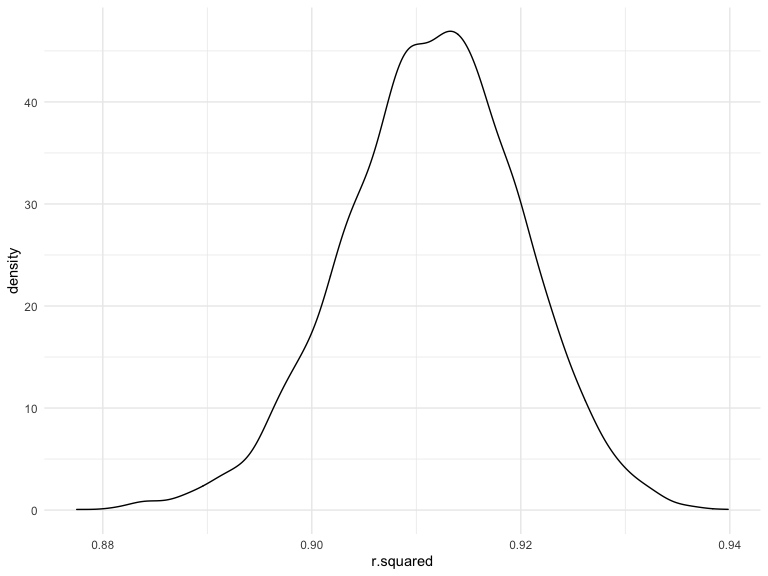
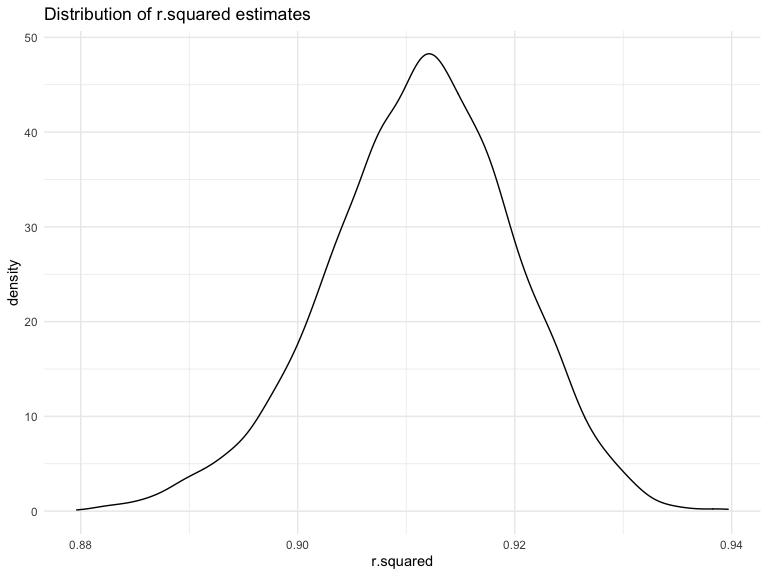
last changed  added axis and title

diff --git a/p8105_HW6_rkm2147.md b/p8105_HW6_rkm2147.md
@@ -117,7 +117,7 @@ models_results_df %>%
 
 ## Problem 2
 
-Find some residuals
+### load data and tidy
 
 ``` r
 baby_df = 
@@ -172,13 +172,6 @@ stage of the homework. in addition to these 4 required variables, i
 added one more additional variable, `momage` to see how that predictor
 influences the outcome.
 
-**make a plot**
-
-is there any skewness? yes, this is right skewed any trend, something
-that is nonlinear? no distinct trends appear any extreme outliers. can
-be observed around the age 20. There appears to be 3 values that are
-above 1500 for residual values.
-
 ``` r
 #model1 on the plot
 my_model = lm(bwt~ blength + bhead + babysex + gaweeks + momage, data = baby_df)
@@ -187,6 +180,35 @@ my_model = lm(bwt~ blength + bhead + babysex + gaweeks + momage, data = baby_df)
 fit_1 = lm(bwt ~ blength + gaweeks, data = baby_df)
 fit_2 = lm(bwt ~ bhead*blength + babysex*bhead + babysex*blength + babysex*bhead*blength, data = baby_df)
 ```
+
+### Create a model and plot it\!
+
+We can observe from this plot that it is left skewed, with values
+clustering between 2000-4000 (for predictions). No distinct trends
+appear from this plot. Extreme outliers can be observed around
+prediction value of 1000 and below. Also this can observed for residuals
+greater than 1000. There appears to be 3 values that are above 1500 for
+residual values.
+
+``` r
+residual_plot = 
+baby_df %>% 
+  modelr::add_residuals(my_model) %>% 
+  add_predictions(my_model) %>%  
+  ggplot(aes(x = pred, y = resid)) + 
+  geom_point() +
+  labs(
+    title = "plot of my proposed model's residuals against fitted values",
+    x = "Predictions",
+    y = "Residuals"
+  )
+
+residual_plot
+```
+
+<img src="p8105_HW6_rkm2147_files/figure-gfm/unnamed-chunk-8-1.png" width="90%" />
+
+### tidy table of the created models
 
 ``` r
 #this is model1 on the plot
@@ -203,6 +225,8 @@ my_model %>%
 | babysexmale |   \-34.666 |     8.815 |   \-3.932 |       0 |
 | gaweeks     |     13.429 |     1.513 |     8.874 |       0 |
 | momage      |      5.934 |     1.125 |     5.273 |       0 |
+
+let’s look at the first model we need to compare
 
 ``` r
 #this is model2 on the plot
@@ -237,19 +261,6 @@ fit_2 %>%
 | blength:babysexmale       |    123.773 |    35.119 |     3.524 |   0.000 |
 | bhead:blength:babysexmale |    \-3.878 |     1.057 |   \-3.670 |   0.000 |
 
-show a plot of model residuals against fitted values – use
-add\_predictions and add\_residuals in making this plot.
-
-``` r
-baby_df %>% 
-  modelr::add_residuals(my_model) %>% 
-  add_predictions(my_model) %>%  
-  ggplot(aes(x = pred, y = resid)) + 
-  geom_point()
-```
-
-<img src="p8105_HW6_rkm2147_files/figure-gfm/unnamed-chunk-11-1.png" width="90%" />
-
 ### Cross validation
 
 ``` r
@@ -265,7 +276,7 @@ cv_df =
     test = map(test, as_tibble))
 ```
 
-Cross validation babes
+Cross validation occurs
 
 ``` r
 cv_df =
@@ -281,7 +292,13 @@ cv_df =
     rmse_model3 = map2_dbl(.x = model_3, .y = test, ~rmse(model = .x, data = .y)))
 ```
 
+We can observe that my proposed model (model1 on the plot) is more
+parsimonious with model 3 than with model2. The two models are
+relatively similar except for the `momage` variable, so this makes
+sense.
+
 ``` r
+validation_plot = 
 cv_df %>% 
   select(starts_with("rmse")) %>% 
   pivot_longer(
@@ -290,7 +307,14 @@ cv_df %>%
     values_to = "rmse",
     names_prefix = "rmse_") %>% 
   mutate(model = fct_inorder(model)) %>% 
-  ggplot(aes(x = model, y = rmse)) + geom_violin()
+  ggplot(aes(x = model, y = rmse)) + geom_violin() +
+  labs(
+    title = "plot of my proposed model vs the model2 and model3",
+    x = "rmse",
+    y = "Model"
+  )
+
+validation_plot
 ```
 
 <img src="p8105_HW6_rkm2147_files/figure-gfm/unnamed-chunk-15-1.png" width="90%" />
@@ -359,13 +383,19 @@ weather_df %>%
 ```
 
 We can observe from the r-squared plot that the distribution is
-relatively normal. There is a slight skew towards the right where the
-values are closer to 1.
+relatively normal. There is a slight left skew, towards where the values
+are closer to 1.
 
 ``` r
 r2_plot = 
   boot_df %>% 
-  ggplot(aes(x = r.squared)) + geom_density()
+  ggplot(aes(x = r.squared)) + geom_density() +
+  labs(
+    title = "Distribution of r.squared estimates",
+    x = "r.squared",
+    y = "density"
+  )
+
 
 r2_plot  
 ```
@@ -389,7 +419,10 @@ weather_df %>%
   names_from = "term", 
   values_from = "estimate") %>% 
   janitor::clean_names() %>% 
-  unnest(tmin, intercept)
+  unnest(tmin, intercept) %>% 
+mutate(
+    newvalue = log(intercept*tmin)
+  )
 ```
 
 We can observe from the log(β̂0∗β1) plot that the distribution is
@@ -398,7 +431,12 @@ relatively normal.
 ``` r
 beta_plot = 
   beta_df %>% 
-  ggplot(aes(x = log(intercept*tmin))) + geom_density()
+  ggplot(aes(x = log(intercept*tmin))) + geom_density() +
+  labs(
+    title = "Distribution of log(β̂0∗β1) estimates",
+    x = "log(β̂0∗β1",
+    y = "density"
+  )
  
 beta_plot 
 ```
@@ -413,24 +451,14 @@ r squared is as follows
 ```
 
     ##      2.5% 
-    ## 0.8940921
+    ## 0.8928156
 
 ``` r
   quantile(boot_df$r.squared, .975) 
 ```
 
     ##     97.5% 
-    ## 0.9274143
-
-Created a new column to consider log(β̂0∗β1)
-
-``` r
-beta_df =
-  beta_df %>% 
-  mutate(
-    newvalue = log(intercept*tmin)
-  )
-```
+    ## 0.9272971
 
 The 95% confidence interval created via the 2.5% and 97.5% quantiles for
 log(β̂0∗β1 is as follows
@@ -439,12 +467,12 @@ log(β̂0∗β1 is as follows
   quantile(beta_df$newvalue, 0.025)
 ```
 
-    ##    2.5% 
-    ## 1.96714
+    ##     2.5% 
+    ## 1.965331
 
 ``` r
   quantile(beta_df$newvalue, .975) 
 ```
 
     ##    97.5% 
-    ## 2.057709
+    ## 2.059737
